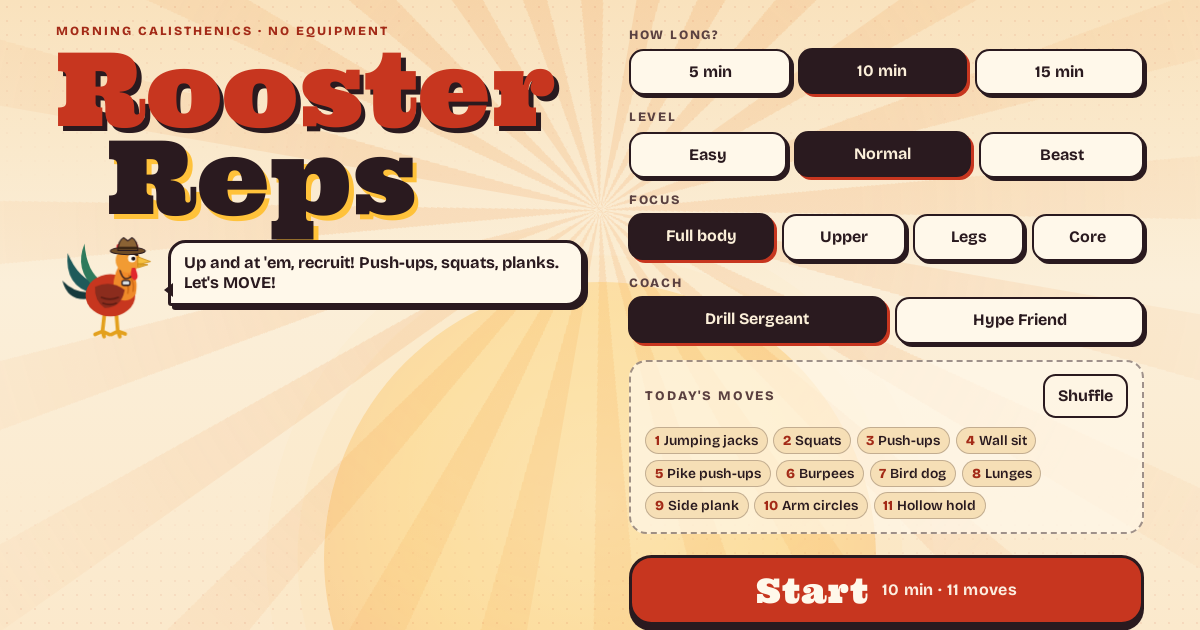
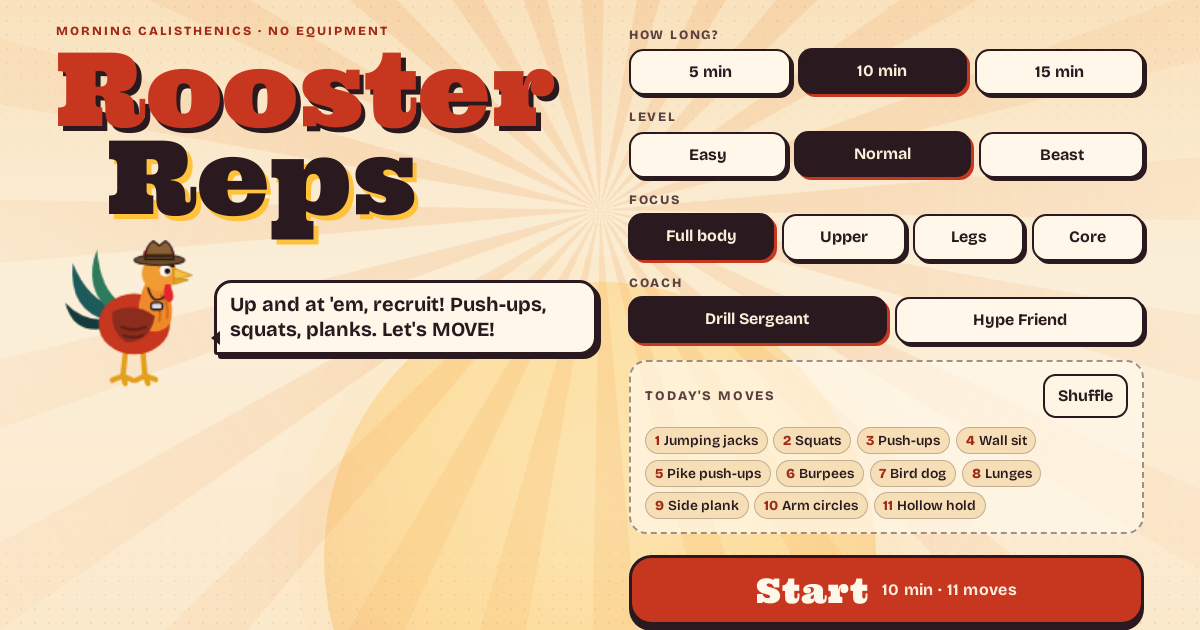
Rooster Reps v1.2: side plank flips to the other side at halfway, arm circles reverse, calmer figure with reduced motion, keyboard focus follows the workout, bigger rooster in the preview (iamflax's idea)

Changed region(s): [[0.0308, 0.3619, 0.5242, 0.6333]]

diff --git a/apps/rooster-reps/index.html b/apps/rooster-reps/index.html
@@ -368,7 +368,7 @@ legend{font-weight:800;font-size:.8rem;letter-spacing:.14em;text-transform:upper
  <!-- DONE -->
  <section id="done" hidden aria-labelledby="doneH">
   <div class="donewrap">
-   <h2 id="doneH">Cock-a-doodle-DONE!</h2>
+   <h2 id="doneH" tabindex="-1">Cock-a-doodle-DONE!</h2>
    <div class="slot" id="slotDone"></div>
    <dl class="stats">
     <div><dt>Moves</dt><dd id="sMoves">0</dd></div>
@@ -385,7 +385,7 @@ legend{font-weight:800;font-size:.8rem;letter-spacing:.14em;text-transform:upper
   </div>
  </section>
 
- <span id="buildstamp" role="note" aria-label="Build information">build v1.1 · 2026-10-11 · 5c9c482</span>
+ <span id="buildstamp" role="note" aria-label="Build information">build v1.2 · 2026-10-11 · bbfb7bc</span>
 </main>
 <p class="sr" id="live" aria-live="polite"></p>
 
@@ -822,7 +822,8 @@ var RIG = (function () {
   var plan = buildPlan();
 
   // ---------- figure ----------
-  var FIG = { mv: null, front: false, ar: 1.52, cyc: 2 };
+  var FIG = { mv: null, front: false, ar: 1.52, cyc: 2, cx: 0 };
+  var RM = !!(window.matchMedia && matchMedia('(prefers-reduced-motion: reduce)').matches);
   var fig = $('fig');
   var E = { aF: $('pAF'), lF: $('pLF'), lN: $('pLN'), aN: $('pAN'), t: $('pT'), hAF: $('cAF'), hAN: $('cAN'), h: $('cH'), band: $('pBand'), tails: $('pTails'), body: $('body'), sweat: $('sweat'), sh: $('shadow'), mat: $('mat'), props: $('props') };
   function pth(a) { var s = ''; for (var i = 0; i < a.length; i++) if (a[i]) s += (s ? 'L' : 'M') + a[i][0].toFixed(3) + ' ' + a[i][1].toFixed(3); return s; }
@@ -846,7 +847,7 @@ var RIG = (function () {
     if (mv.prop === 'wall') minX = Math.min(minX, -.5);
     var pad = .3, bw = maxX - minX + 2 * pad, bh = maxY + .2 + .18, w = Math.max(bw, bh * FIG.ar, 2.6), h = w / FIG.ar, cx = (minX + maxX) / 2;
     fig.setAttribute('viewBox', (cx - w / 2).toFixed(3) + ' ' + (-(h - .18)).toFixed(3) + ' ' + w.toFixed(3) + ' ' + h.toFixed(3));
-    E.mat.setAttribute('x', (cx - 1.35).toFixed(3)); E.mat.setAttribute('width', '2.7');
+    E.mat.setAttribute('x', (cx - 1.35).toFixed(3)); E.mat.setAttribute('width', '2.7'); FIG.cx = cx;
   }
   function figSet(mv) {
     FIG.mv = mv; FIG.front = mv.view === 'front'; FIG.cyc = paceOf(mv); RIG.prep(mv);
@@ -869,7 +870,7 @@ var RIG = (function () {
     if (FIG.front) E.tails.setAttribute('d', '');
     else {
       // headband tails trail behind the head (shows which way the figure faces) and flutter
-      var kx = -uy, ky = ux, tt = performance.now() / 1000, d = '';
+      var kx = -uy, ky = ux, tt = RM ? 0 : performance.now() / 1000, d = '';
       [[0, 1], [.5, .78]].forEach(function (o) {
         var w1 = Math.sin(tt * 9 + o[0] * 3) * .018, w2 = Math.sin(tt * 9 + 1.4 + o[0] * 3) * .026;
         var sx = bx + px * .95, sy = by + py * .95;
@@ -880,10 +881,11 @@ var RIG = (function () {
       E.tails.setAttribute('d', d);
     }
     // the burn: holds tremble in the last 10 s and the head sweats
-    var sh = FIG.shake || 0;
-    if (sh > 0) E.body.setAttribute('transform', 'translate(' + ((Math.random() - .5) * sh).toFixed(4) + ' ' + ((Math.random() - .5) * sh * .6).toFixed(4) + ')');
-    else E.body.removeAttribute('transform');
-    if (FIG.sweat) {
+    var sh = RM ? 0 : FIG.shake || 0, tf = '';
+    if (sh > 0) tf = 'translate(' + ((Math.random() - .5) * sh).toFixed(4) + ' ' + ((Math.random() - .5) * sh * .6).toFixed(4) + ')';
+    if (FIG.flip) tf += ' translate(' + (2 * (FIG.cx || 0)).toFixed(3) + ' 0) scale(-1 1)';
+    if (tf) E.body.setAttribute('transform', tf); else E.body.removeAttribute('transform');
+    if (FIG.sweat && !RM) {
       var sp = (performance.now() / 900) % 1, sx2 = J.head[0] - px * .55 + ux * .03, sy2 = Math.max(.04, J.head[1] - py * .55 + uy * .03 + .02 - sp * .26);
       E.sweat.innerHTML = '<g class="sweat" style="opacity:' + (0.9 * (1 - sp * sp)).toFixed(2) + '"><circle cx="' + sx2.toFixed(3) + '" cy="' + sy2.toFixed(3) + '" r=".032"/><path d="M' + (sx2 - .03).toFixed(3) + ' ' + (sy2 + .01).toFixed(3) + 'L' + sx2.toFixed(3) + ' ' + (sy2 + .075).toFixed(3) + 'L' + (sx2 + .03).toFixed(3) + ' ' + (sy2 + .01).toFixed(3) + 'Z"/></g>';
     } else if (E.sweat.firstChild) E.sweat.textContent = '';
@@ -918,7 +920,7 @@ var RIG = (function () {
     });
   }
   function targetText(m, lvl) {
-    if (m.hold) return 'Hold ' + m.hold[lvl] + ' s' + (m.switchHalf === 'side' ? ', switch sides halfway' : '');
+    if (m.hold) return m.switchHalf === 'side' ? 'Hold ' + Math.round(m.hold[lvl] / 2) + ' s each side' : 'Hold ' + m.hold[lvl] + ' s';
     if (m.reps) return 'Goal · ' + m.reps[lvl] + (m.each ? ' each side' : ' reps') + ' in ' + LV[lvl].work + ' s';
     return LV[lvl].work + ' s · as many as you can';
   }
@@ -1027,7 +1029,7 @@ var RIG = (function () {
     audio(); wakeOn();
     W.moves = moves; W.phases = buildPhases(moves); W.did = moves.map(function () { return false; });
     W.on = true; W.paused = false; W.active = 0; W.figT = 0; FIG.mv = null;
-    show('work'); placeCoach('slotWork'); setPaused(false, true);
+    show('work'); placeCoach('slotWork'); setPaused(false, true); $('pauseBtn').focus({ preventScroll: true });
     $('confirmEnd').hidden = true;
     buildProg(); enterPhase(0, true);
     say(line('start') + ' First up: ' + moves[0].name + '.', 'squawk');
@@ -1051,12 +1053,14 @@ var RIG = (function () {
       renderClock(); if (W.phases[W.i].k === 'work') renderProg();
     }
     var cur = W.phases[W.i];
-    if (cur && cur.k === 'work' && !W.paused) {
+    if (cur && cur.k === 'work') {
       var rm = cur.d - W.el, cm = W.moves[cur.m];
-      FIG.shake = cm.hold && rm < 10 ? .006 + (1 - rm / 10) * .014 : 0;
-      FIG.sweat = rm < 10 && cur.d >= 20;
-    } else { FIG.shake = 0; FIG.sweat = false; }
-    if (FIG.mv) figDraw(W.figT / FIG.cyc);
+      FIG.shake = cm.hold && rm < 10 && !W.paused ? .006 + (1 - rm / 10) * .014 : 0;
+      FIG.sweat = rm < 10 && cur.d >= 20 && !W.paused;
+      FIG.flip = cm.switchHalf === 'side' && W.el >= cur.d / 2;
+      FIG.rev = cm.switchHalf === 'dir' && W.el >= cur.d / 2;
+    } else { FIG.shake = 0; FIG.sweat = false; FIG.flip = false; FIG.rev = false; }
+    if (FIG.mv) { var fp = W.figT / FIG.cyc; figDraw(FIG.rev ? 1 - (fp - Math.floor(fp)) : fp); }
     renderRep();
     W.raf = requestAnimationFrame(tick);
   }
@@ -1095,7 +1099,7 @@ var RIG = (function () {
       s.best = Math.max(s.best || 0, s.n || 1); s.total = (s.total || 0) + 1; st.streak = s; save(st);
     }
     var si = streakInfo();
-    show('done'); placeCoach('slotDone');
+    show('done'); placeCoach('slotDone'); $('doneH').focus({ preventScroll: true });
     $('doneH').textContent = counted ? 'Cock-a-doodle-DONE!' : 'Early roost!';
     $('sMoves').textContent = n;
     $('sMin').textContent = mins < 1 ? '<1' : Math.round(mins);
@@ -1129,7 +1133,7 @@ var RIG = (function () {
     else manual();
   });
   $('againBtn').addEventListener('click', function () { startWorkout(W.moves); });
-  $('homeBtn').addEventListener('click', function () { hush(); show('setup'); placeCoach('slotSetup'); greet(); });
+  $('homeBtn').addEventListener('click', function () { hush(); show('setup'); placeCoach('slotSetup'); greet(); $('startBtn').focus({ preventScroll: true }); });
 
   // ---------- controls ----------
   $('startBtn').addEventListener('click', function () { renderPlan(); startWorkout(plan.moves); });

diff --git a/apps/rooster-reps/notes.md b/apps/rooster-reps/notes.md
@@ -5,6 +5,7 @@ iamflax's idea (2026-10-11): "i need a caliathetics app, that shows me different
 ## Log
 - v1.0 2026-10-11: phone-first single file. Setup (5/10/15 min, easy/normal/beast, full/upper/legs/core, Drill Sergeant or Hype Friend), 18 no-equipment moves drawn as animated SVG figures, get ready → work → rest with a next-up preview, countdown ring, beeps in the last 3 s, pause/skip/back, wake lock, a speaking rooster coach, a done screen with a morning streak and share.
 - v1.1 2026-10-11: a rep counter chip ("Rep 4 of 12"). The demo figure now moves at the goal pace (work s / reps, clamped to 0.75-1.35x the authored cycle), so you can rep along with it; goal reached → "Bonus n". Headband tails trail behind the head to show which way the figure faces. In the last 10 s holds tremble and a sweat drop falls. Coach lines use lowercase move names mid-sentence.
+- v1.2 2026-10-11: side plank mirrors to the other side at halfway, and arm circles play backwards after halfway. Reduced motion turns off the tremble, sweat and tail flutter (the demo itself keeps moving, since it is the content). Focus moves to Pause on start, to the heading on the done screen and back to Start on New workout. The og.png has a bigger rooster.
 
 ## Art direction
 - Retro gym poster at sunrise: paper #fbefd9, ink #2a1a1f, red #c7361f, sun #ffc23a, sky #2f6f86. Conic sunburst rays plus a halftone dot layer.
@@ -25,6 +26,8 @@ iamflax's idea (2026-10-11): "i need a caliathetics app, that shows me different
 - Toe stroke radius touches the floor by ~0.05 on some moves. This is visual only.
 
 ## Todos
+- Upper focus has only 5 upper moves at normal, so arm circles/dips can repeat in a 10-15 min plan. More upper moves would help (e.g. plank shoulder taps, inchworm).
+- Rep pace: one figure cycle = one rep (each-side moves: one cycle = left + right). Phase 0 of every rep move must be the start pose.
 - Ask Flax: is the drill sergeant too shouty or just right? Any moves to add (e.g. a dead bug or calf raises)?
 - Possible later: a custom routine builder, rep counting via tap, and a longer 20 min option.
 
